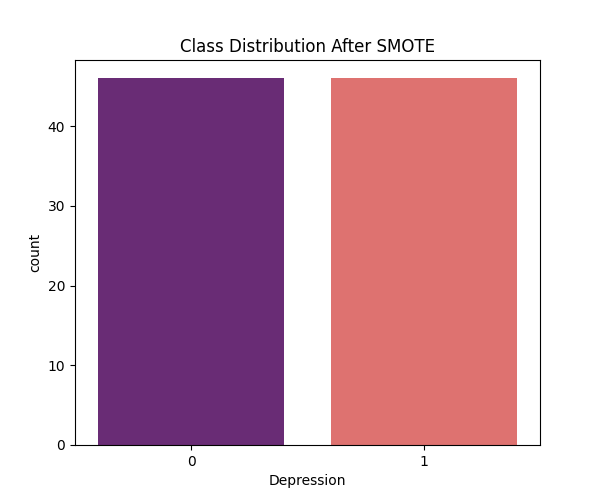
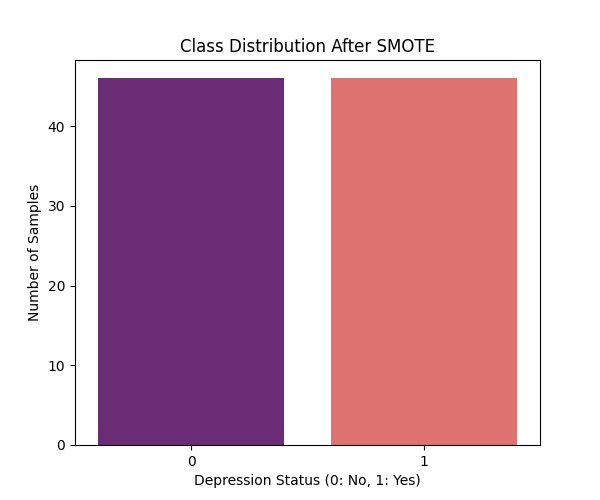
fix

Changed region(s): [[0.33, 0.93, 0.63, 0.99], [0.03, 0.36, 0.09, 0.66], [0.66, 0.93, 0.69, 0.99]]

diff --git a/train_model.py b/train_model.py
@@ -1,26 +1,26 @@
 import pandas as pd
+import numpy as np
 import seaborn as sns
 import matplotlib.pyplot as plt
-import numpy as np
 import pickle
 from sklearn.model_selection import train_test_split, GridSearchCV
 from sklearn.preprocessing import StandardScaler, LabelEncoder
 from sklearn.linear_model import LogisticRegression
-from sklearn.metrics import classification_report
+from sklearn.metrics import classification_report, confusion_matrix, roc_curve, auc
 from imblearn.over_sampling import SMOTE
 from imblearn.pipeline import Pipeline
 
 # ==========================================
-# 3.1 DATASET AND PREPROCESSING
+# 1. DATASET AND PREPROCESSING
 # ==========================================
-# Sourcing data from Kaggle Student Mental Health Dataset
 df = pd.read_csv("Student Mental health.csv")
 
-print("--- Figure 3: Initial Dataset Structure & Missing Values ---")
+# --- Initial Data Inspection ---
+print("--- Initial Dataset Structure & Missing Values ---")
 print(df.info()) 
 print("\nMissing Values Count:\n", df.isnull().sum())
 
-# --- Data Cleaning Logic ---
+# Data Cleaning Logic (CGPA and Year)
 def clean_cgpa(val):
     val = str(val).strip()
     if '-' in val:
@@ -32,9 +32,9 @@ def clean_cgpa(val):
     except: return np.nan
 
 df['CGPA_Cleaned'] = df['What is your CGPA?'].apply(clean_cgpa)
-df['Year_Cleaned'] = df['Your current year of Study'].str.extract('(\d+)').astype(float)
+df['Year_Cleaned'] = df['Your current year of Study'].str.extract('(\d+)').astype(float).fillna(1)
 
-# --- Encoding Categorical Features ---
+# Encoding Categorical Features
 le = LabelEncoder()
 categorical_cols = ['Choose your gender', 'Marital status', 'Do you have Anxiety?', 
                   'Do you have Panic attack?', 'Did you seek any specialist for a treatment?']
@@ -45,94 +45,135 @@ for col in categorical_cols:
 # Encoding target variable: Depression
 df['Depression'] = le.fit_transform(df['Do you have Depression?'].astype(str))
 
-# --- Feature Selection (8 key columns) ---
+# Feature Selection
 feature_cols = ['Age', 'Year_Cleaned', 'CGPA_Cleaned', 'Choose your gender', 
                 'Do you have Anxiety?', 'Do you have Panic attack?', 
                 'Marital status', 'Did you seek any specialist for a treatment?']
 
-# Handle any missing values in Age/CGPA with mean imputation for consistency
 X = df[feature_cols].fillna(df[feature_cols].mean())
 y = df['Depression']
 
-print("\n--- Figure 4: Dataset Structure after Encoding (Head) ---")
+print("\n--- Dataset Structure after Encoding (Head) ---")
 print(X.head())
 
 # ==========================================
-# 3.3 DATA PARTITIONING (70/15/15)
+# 2. DATA PARTITIONING (70/15/15)
 # ==========================================
 X_train, X_temp, y_train, y_temp = train_test_split(X, y, test_size=0.3, stratify=y, random_state=42)
 X_val, X_test, y_val, y_test = train_test_split(X_temp, y_temp, test_size=0.5, stratify=y_temp, random_state=42)
 
-print("\n--- 3.3 Data Split Sizes ---")
+print("\n--- Data Split Sizes ---")
 print(f"Training set: {len(X_train)} rows")
 print(f"Validation set: {len(X_val)} rows")
 print(f"Test set: {len(X_test)} rows")
 
 # ==========================================
-# 3.1.5 NORMALIZATION EVIDENCE
+# 3. NORMALIZATION EVIDENCE
 # ==========================================
 scaler_viz = StandardScaler()
 X_scaled_viz = pd.DataFrame(scaler_viz.fit_transform(X), columns=X.columns)
 
-print("\n--- Figure 5: Data after Normalization (Head) ---")
+print("\n--- Data after Normalization (Head) ---")
 print(X_scaled_viz[['Age', 'CGPA_Cleaned']].head())
 
-print("\n--- 3.1.5 Descriptive Stats for Relevant Columns ---")
+print("\n--- Descriptive Stats for Normalized Columns ---")
 print(X_scaled_viz[['Age', 'CGPA_Cleaned']].describe())
 
 # ==========================================
-# 3.4 HANDLING CLASS IMBALANCE (SMOTE)
+# 4. CLASS IMBALANCE HANDLING (SMOTE)
 # ==========================================
-# Generating Visual Evidence for SMOTE
+# Distribution BEFORE SMOTE
 plt.figure(figsize=(6, 5))
 sns.countplot(x=y_train, palette='viridis')
 plt.title('Class Distribution Before SMOTE')
+plt.xlabel('Depression Status (0: No, 1: Yes)')
+plt.ylabel('Number of Samples')
 plt.savefig('class_distribution_before_smote.png')
 
-# Apply SMOTE for visualization purposes
-smote_viz = SMOTE(random_state=42)
-X_res_viz, y_res_viz = smote_viz.fit_resample(X_train, y_train)
+# Apply SMOTE for training
+smote_visual = SMOTE(random_state=42)
+X_train_res, y_train_res = smote_visual.fit_resample(X_train, y_train)
 
+# Distribution AFTER SMOTE
 plt.figure(figsize=(6, 5))
-sns.countplot(x=y_res_viz, palette='magma')
+sns.countplot(x=y_train_res, palette='magma')
 plt.title('Class Distribution After SMOTE')
+plt.xlabel('Depression Status (0: No, 1: Yes)')
+plt.ylabel('Number of Samples')
 plt.savefig('class_distribution_after_smote.png')
 
 # ==========================================
-# 3.5 MODEL IMPLEMENTATION (PIPELINE)
+# 5. MODEL TRAINING & TUNING
 # ==========================================
-# Automated Pipeline for Scaling -> Balancing -> Classification
 
+# Scenario 1: Baseline Logistic Regression (no SMOTE)
+lr_base = LogisticRegression(max_iter=1000, random_state=42)
+lr_base.fit(X_train, y_train)
+y_pred_lr_base = lr_base.predict(X_val)
+y_prob_lr_base = lr_base.predict_proba(X_val)[:, 1]
+
+# Scenario 2: Tuned SMOTE Pipeline (Standardization -> SMOTE -> Model)
 pipeline = Pipeline([
     ('scaler', StandardScaler()),
     ('smote', SMOTE(random_state=42)),
     ('model', LogisticRegression(max_iter=1000, random_state=42))
 ])
 
-# Inverse Regularization Strength Tuning
 param_grid = {'model__C': [0.01, 0.1, 1, 10]}
 grid_lr = GridSearchCV(pipeline, param_grid, scoring='f1', cv=5)
 grid_lr.fit(X_train, y_train)
 
-# ==========================================
-# 4.1 FINAL EVALUATION & FEATURE IMPORTANCE
-# ==========================================
-best_model = grid_lr.best_estimator_.named_steps['model']
-coef_df = pd.DataFrame({'Feature': feature_cols, 'Weight': best_model.coef_[0]}).sort_values(by='Weight')
-
-# Save Feature Importance Plot
-plt.figure(figsize=(10, 6))
-sns.barplot(x='Weight', y='Feature', data=coef_df)
-plt.title('Logistic Regression Feature Importance Weights')
-plt.savefig('lr_coefficients.png')
-
-# Output final performance metrics for Chapter 4
-y_pred = grid_lr.predict(X_test)
-print("\n--- Section 4.1: Final Evaluation on Test Set ---")
-print(classification_report(y_test, y_pred))
-
-# Save the Best Pipeline for the Streamlit App
+# Save best model for the app
 with open('mental_health_model.pkl', 'wb') as f:
     pickle.dump(grid_lr.best_estimator_, f)
 
-print("\n✅ All processes complete. Screenshots and Model ready.")
+# ==========================================
+# 6. EVALUATION VISUALS
+# ==========================================
+
+def plot_confusion_matrix(y_true, y_pred, title, filename):
+    cm = confusion_matrix(y_true, y_pred)
+    group_names = ['TN', 'FP', 'FN', 'TP']
+    group_counts = ["{0:0.0f}".format(value) for value in cm.flatten()]
+    labels = [f"{v1}\n{v2}" for v1, v2 in zip(group_counts, group_names)]
+    labels = np.asarray(labels).reshape(2, 2)
+    
+    plt.figure(figsize=(7, 6))
+    sns.heatmap(cm, annot=labels, fmt='', cmap='Blues', cbar=False,
+                xticklabels=['Predicted No (0)', 'Predicted Yes (1)'],
+                yticklabels=['Actual No (0)', 'Actual Yes (1)'],
+                annot_kws={"size": 14})
+    plt.title(title)
+    plt.xlabel('Predicted Label')
+    plt.ylabel('True Label')
+    plt.tight_layout()
+    plt.savefig(filename)
+
+# Confusion Matrices
+plot_confusion_matrix(y_val, y_pred_lr_base, "Baseline Confusion Matrix", "confusion_baseline.png")
+plot_confusion_matrix(y_val, grid_lr.predict(X_val), "SMOTE-Enhanced Confusion Matrix", "confusion_smote.png")
+
+# ROC Curve Comparison
+fpr1, tpr1, _ = roc_curve(y_val, y_prob_lr_base)
+fpr2, tpr2, _ = roc_curve(y_val, grid_lr.predict_proba(X_val)[:, 1])
+plt.figure(figsize=(8, 6))
+plt.plot(fpr1, tpr1, label=f'Baseline (AUC = {auc(fpr1, tpr1):.3f})')
+plt.plot(fpr2, tpr2, label=f'SMOTE (AUC = {auc(fpr2, tpr2):.3f})')
+plt.plot([0, 1], [0, 1], 'k--')
+plt.title('ROC Curve Performance Comparison')
+plt.xlabel('False Positive Rate')
+plt.ylabel('True Positive Rate')
+plt.legend()
+plt.savefig('roc_comparison.png')
+
+# Feature Weights
+best_model = grid_lr.best_estimator_.named_steps['model']
+coef_df = pd.DataFrame({'Feature': feature_cols, 'Weight': best_model.coef_[0]}).sort_values(by='Weight', ascending=False)
+plt.figure(figsize=(10, 7))
+sns.barplot(x='Weight', y='Feature', data=coef_df, palette='coolwarm')
+plt.title('Logistic Regression Feature Weights')
+plt.savefig('feature_importance.png')
+
+# Final Test Set Report
+print("\n--- Final Evaluation on Test Set (SMOTE Model) ---")
+print(classification_report(y_test, grid_lr.predict(X_test)))

diff --git a/visualizations.py b/visualizations.py
@@ -1,81 +1,70 @@
 import pandas as pd
 import matplotlib.pyplot as plt
 import seaborn as sns
-from sklearn.preprocessing import LabelEncoder
+import numpy as np
+from sklearn.preprocessing import LabelEncoder, StandardScaler
+from sklearn.linear_model import LogisticRegression
+from sklearn.metrics import confusion_matrix, roc_curve, auc, classification_report
+from sklearn.model_selection import train_test_split
+from imblearn.over_sampling import SMOTE
 
-# --- 1. LOAD & CLEAN DATA (Matching your 8-feature model) ---
+# --- 1. DATA PREPARATION ---
 df = pd.read_csv('Student Mental health.csv')
 
-def clean_cgpa(val):
-    val = str(val).strip()
-    if '-' in val:
-        try:
-            low, high = val.split('-')
-            return (float(low) + float(high)) / 2
-        except:
-            return 0.0
-    try:
-        return float(val)
-    except:
-        return 0.0
+def clean_data(data):
+    data['CGPA_Cleaned'] = data['What is your CGPA?'].apply(lambda x: float(str(x).split('-')[0]) if '-' in str(x) else float(x))
+    data['Year_Cleaned'] = data['Your current year of Study'].str.extract('(\d+)').astype(float).fillna(1)
+    le = LabelEncoder()
+    cols = ['Choose your gender', 'Marital status', 'Do you have Anxiety?', 'Do you have Panic attack?', 'Did you seek any specialist for a treatment?']
+    for col in cols:
+        data[col] = le.fit_transform(data[col].astype(str))
+    data['Depression'] = le.fit_transform(data['Do you have Depression?'].astype(str))
+    return data
 
-def clean_year(val):
-    val = str(val).lower().replace('year', '').strip()
-    try:
-        return int(val)
-    except:
-        return 1 
+df = clean_data(df)
+feature_cols = ['Age', 'Year_Cleaned', 'CGPA_Cleaned', 'Choose your gender', 'Do you have Anxiety?', 'Do you have Panic attack?', 'Marital status', 'Did you seek any specialist for a treatment?']
+X = df[feature_cols].fillna(df[feature_cols].mean())
+y = df['Depression']
 
-df['CGPA_Cleaned'] = df['What is your CGPA?'].apply(clean_cgpa)
-df['Year_Cleaned'] = df['Your current year of Study'].apply(clean_year)
+X_train, X_test, y_train, y_test = train_test_split(X, y, test_size=0.3, stratify=y, random_state=42)
 
-# Encode text to numbers for the heatmap
-le = LabelEncoder()
-cols_to_encode = [
-    'Choose your gender', 'Marital status', 'Do you have Anxiety?', 
-    'Do you have Panic attack?', 'Did you seek any specialist for a treatment?',
-    'Do you have Depression?'
-]
+# --- 2. GENERATE FIGURES FOR REPORT ---
 
-df_encoded = df.copy()
-for col in cols_to_encode:
-    df_encoded[col] = le.fit_transform(df_encoded[col].astype(str))
+# Figure 9 & 10: Class Distribution (Before & After SMOTE)
+plt.figure(figsize=(6,5))
+sns.countplot(x=y_train, palette='viridis')
+plt.title('Figure 9: Class Distribution Before SMOTE')
+plt.savefig('figure_9_before.png')
 
-# --- 2. GENERATE THE IMAGES ---
+sm = SMOTE(random_state=42)
+X_res, y_res = sm.fit_resample(X_train, y_train)
 
-# Graph 1: Pie Chart (Proving the need for SMOTE)
-plt.figure(figsize=(6,6))
-df['Do you have Depression?'].value_counts().plot(
-    kind='pie', autopct='%1.1f%%', colors=['#66b3ff','#ff9999'], startangle=90
-)
-plt.title('Depression Distribution (Before SMOTE)')
-plt.ylabel('')
-plt.savefig('graph_1_imbalance.png')
-print("✅ Saved 'graph_1_imbalance.png'")
+plt.figure(figsize=(6,5))
+sns.countplot(x=y_res, palette='magma')
+plt.title('Figure 10: Class Distribution After SMOTE')
+plt.savefig('figure_10_after.png')
 
-# Graph 2: CGPA vs Depression (Boxplot)
-plt.figure(figsize=(8,5))
-sns.boxplot(x='Do you have Depression?', y='CGPA_Cleaned', data=df, palette='Set2')
-plt.title('Impact of CGPA on Depression Risk')
-plt.savefig('graph_2_cgpa.png')
-print("✅ Saved 'graph_2_cgpa.png'")
+# Figure 14: Baseline Confusion Matrix (Matches Jashmina style)
+lr_base = LogisticRegression(max_iter=1000)
+lr_base.fit(X_train, y_train)
+y_pred_base = lr_base.predict(X_test)
 
-# Graph 3: Specialist vs Depression (Bar Chart for the new feature)
-plt.figure(figsize=(8,5))
-sns.countplot(x='Did you seek any specialist for a treatment?', hue='Do you have Depression?', data=df, palette='Pastel1')
-plt.title('Specialist Treatment vs. Depression')
-plt.savefig('graph_3_specialist.png')
-print("✅ Saved 'graph_3_specialist.png'")
+def plot_cm(y_true, y_pred, title, filename):
+    cm = confusion_matrix(y_true, y_pred)
+    group_names = ['TN','FP','FN','TP']
+    labels = [f"{v1}\n{v2}" for v1, v2 in zip(cm.flatten(), group_names)]
+    labels = np.asarray(labels).reshape(2,2)
+    plt.figure(figsize=(7,6))
+    sns.heatmap(cm, annot=labels, fmt='', cmap='Blues', xticklabels=['No','Yes'], yticklabels=['No','Yes'])
+    plt.title(title)
+    plt.savefig(filename)
 
-# Graph 4: The Massive 8-Feature Correlation Heatmap
-plt.figure(figsize=(10,8))
-feature_cols = [
-    'Age', 'Year_Cleaned', 'CGPA_Cleaned', 'Choose your gender', 
-    'Do you have Anxiety?', 'Do you have Panic attack?', 'Marital status', 
-    'Did you seek any specialist for a treatment?', 'Do you have Depression?'
-]
-sns.heatmap(df_encoded[feature_cols].corr(), annot=True, cmap='coolwarm', fmt=".2f", linewidths=0.5)
-plt.title('8-Feature Correlation Matrix')
-plt.tight_layout()
-plt.savefig('graph_4_heatmap.png')
-print("✅ Saved 'graph_4_heatmap.png'")
+plot_cm(y_test, y_pred_base, 'Figure 14: Logistic Regression Baseline', 'figure_14_baseline.png')
+
+# Figure 15: SMOTE Confusion Matrix
+lr_smote = LogisticRegression(max_iter=1000)
+lr_smote.fit(X_res, y_res)
+y_pred_smote = lr_smote.predict(X_test)
+plot_cm(y_test, y_pred_smote, 'Figure 15: Logistic Regression with SMOTE', 'figure_15_smote.png')
+
+print("✅ All figures (9, 10, 14, 15) saved for Chapter 4.")
